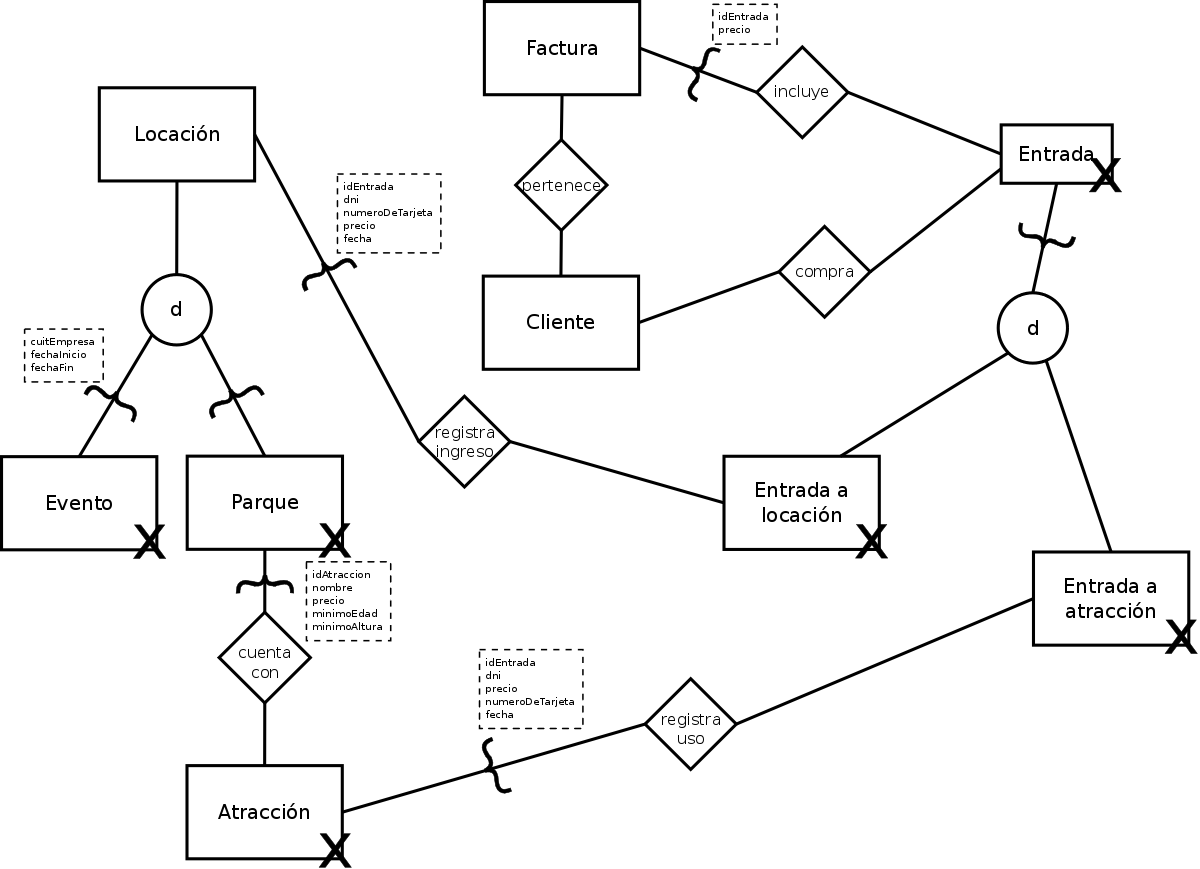
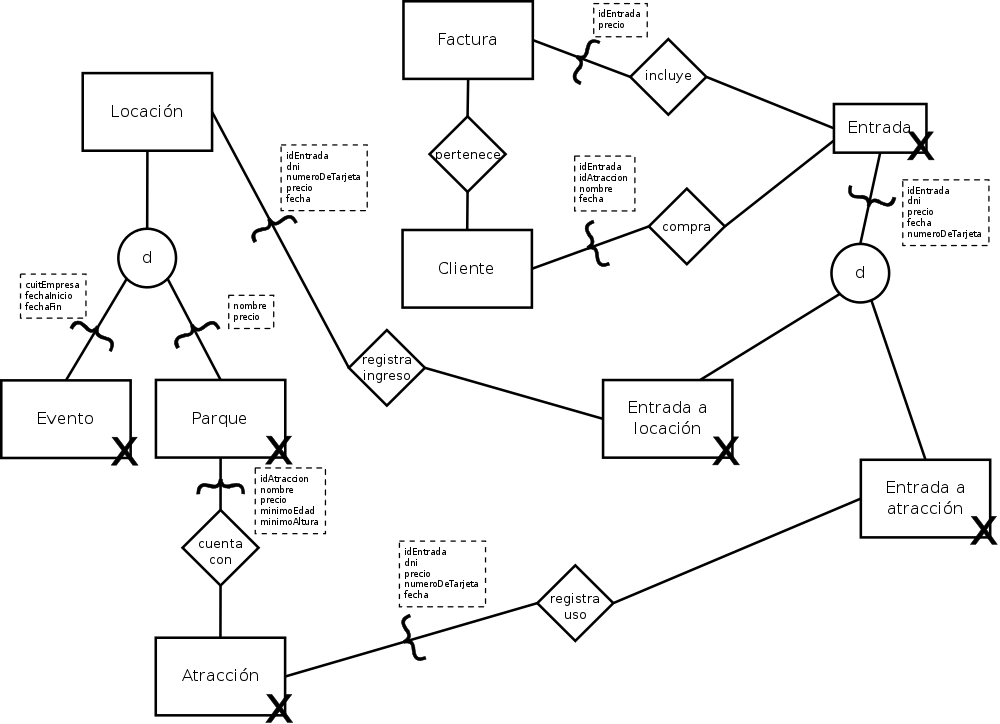
Agrego script para probar shards. Agrego resultados. Actualizo did con cambios hablados con julio. Completo informe

diff --git a/shard-script.py b/shard-script.py
@@ -1,0 +1,69 @@
+#!/usr/bin/env python
+import rethinkdb as r
+import random
+import time
+max=1000000
+oneClientId=0
+initialPoint=500
+
+def randomString(size):
+    return ''.join(random.choice('abcdefghijklmnopqrstuvwxyz 0123456789') for _ in range(size))
+
+def createClient(index):
+    res = r.table('clientes').insert({
+        'dni': index,
+        'nombre': randomString(20),
+        'apellido': randomString(10),
+        'direccion': randomString(30),
+        'telefono': randomString(9),
+        'atraccionesVisitadas': []
+    }).run()
+    global oneClientId
+    if oneClientId == 0 or random.randint(1, 100) > 90:
+        oneClientId = res['generated_keys'][0]
+
+def getClients():
+    r.table('clientes').run()
+
+def getOneClient():
+    global oneClientId
+    r.table('clientes').get(oneClientId).run()
+
+def getGroupClients(currentPoint):
+    global initialPoint
+    size = initialPoint / 2
+    start = random.randint(1,currentPoint-size)
+    r.table('clientes').filter((r.row["dni"] >= start) & (r.row["dni"] < (start+size))).run()
+
+print('Connecting')
+r.connect('localhost', 28015, db='tp2').repl()
+print('Droping table')
+r.table('clientes').delete().run()
+
+f = open('shard-testing.csv', 'w')
+f.write("Rows, Get one, Get all, Get group\n")
+
+print('Initializing')
+point=initialPoint
+for i in range(1,max):
+    createClient(i)
+    if i == point or i == max-1:
+        print "---- " + str(i)
+        point *= 2
+        startTime=time.time()
+        getClients()
+        endTime=time.time()
+        getAllTime=(endTime - startTime) * 1000
+        print "Time get all: " + str(getAllTime)
+        startTime=time.time()
+        getOneClient()
+        endTime=time.time()
+        getOneTime=(endTime - startTime) * 1000
+        print "Time get one: " + str(getOneTime)
+        startTime=time.time()
+        getGroupClients(i)
+        endTime=time.time()
+        getGroupTime=(endTime - startTime) * 1000
+        print "Time get group: " + str(getGroupTime)
+        f.write(str(i) + "," + str(getOneTime) + "," + str(getAllTime) + "," + str(getGroupTime) + "\n")
+        print "--------"

diff --git a/informe/testing.tex b/informe/testing.tex
@@ -1,0 +1,23 @@
+\section{Experimentación con shards}
+
+\par Realizamos unas pruebas sobre la base de datos generada para ver el comportamiento y evaluar la performance de la misma ante un fuerte crecimiento.
+Para esto generamos 3 shards en los cuales almacenamos la tabla \textit{clientes}. Luego fuimos insertando datos y cada cierta cantidad realizamos una serie de consultas y medimos el tiempo de respuesta:
+\begin{itemize}
+  \item Obtener una fila: por medio de un id hacemos un \textit{find} de una fila.
+  \item Obtener 50 filas: utilizando un rango de valores del campo \textit{dni} (valor único) para filtrar un \textit{find0}.
+  \item Obtener todas las filas: hacemos un \textit{find} sin restricciones.
+\end{itemize}
+
+\par Comenzamos sin ninguna fila en la base de datos y llegamos a una cantidad de 520000 filas aproximadamente.
+Los resultados pueden observarse en la figura \ref{fig:testing}.
+
+\begin{figure}
+  \includegraphics[width=\textwidth]{src/shards-testing.png}
+  \caption{Experimentación de performance de shards al aumentar el tamaño de la base de datos.}
+  \label{fig:testing}
+\end{figure}
+
+\par En principio no creíamos tener tan buena respuesta, o al menos notar una diferencia mas notoria superando los 200000.
+Pero como vemos en el gráfico el tiempo de respuesta para obtener una fila es bastante estable, y los tiempos para obtener un grupo de filas o todas las filas no aumenta de forma tan fuerte (mas bien es lineal).
+
+\par El tiempo de inserción no fue mucho, pero al insertar tanta cantidad el tiempo de corrida del script se hizo largo (alrededor de 4 horas).

diff --git a/informe/schemes.tex b/informe/schemes.tex
@@ -33,7 +33,7 @@ De esta manera podemos consultar las atracciones que visitó un cliente de forma
 }
 \end{verbatim}
 
-\subsubsection{Evento}
+\subsection{Evento}
 \par Lo que hicimos fue embeber Evento y Entrada en Locacion, para tener en la misma estructura todos los eventos y sus visitas.
 Así podremos consultar por un evento y obtener las visitas, con fecha, que tuvo.
 \begin{verbatim}
@@ -71,7 +71,7 @@ Así podremos consultar por un evento y obtener las visitas, con fecha, que tuvo
 }
 \end{verbatim}
 
-\subsubsection{Parque}
+\subsection{Parque}
 \par Lo que hicimos fue embeber Entrada en Atracción y luego Atracción en Parque. Para lograr tener las atracciones (y las entradas a esas atracciones) en los parques.
 Luego embebimos Parque en Locación y Entrada en Locación. De esta forma tenemos, además de lo antes mencionado, las entradas a los parques incluidas.
 \par Con esto podemos consultar diréctamente por un parque y obtener sus datos informativos, sus visitas (con fecha) y atracciones (con visitas a ellas).
@@ -131,7 +131,7 @@ Luego embebimos Parque en Locación y Entrada en Locación. De esta forma tenemo
 }
 \end{verbatim}
 
-\subsubsection{Factura}
+\subsection{Factura}
 \par Lo que hicimos en este caso fue embeber Entrada en Factura. De esta manera consultamos una factura y tenemos el monto total y los ids de entradas para poder asociar luego.
 \begin{verbatim}
 {

diff --git a/informe/introduccion.tex b/informe/introduccion.tex
@@ -1,1 +1,15 @@
 \section{Introducción}
+
+\par Se cuenta con una base de datos SQL con datos de un sistema de tarjetas de acceso a parques, atracciones y eventos.
+Debido al gran aumento de datos acumulados se necesita diseñar una nueva base de datos para almacenar historiales de entradas, clientes y
+facturas y poder delegarle ciertas consultas pesadas. Se tiene un listado de consultas que se van a realizar para tener de referencia:
+
+\begin{itemize}
+  \item Atracciones visitadas por un cliente dado.
+  \item Ranking de atracciones por cantidad de visitas para un parque dado.
+  \item Top 5 de Eventos con mayor facturación.
+  \item Total de importes por atracción en un parque dado.
+\end{itemize}
+
+\par En el siguiente informe vamos a presentar una solución al problema planteado indicando cómo llegamos a la misma.
+Así mismo se incluyen resultados de unas pruebas de rendimiento de consultas con gran cantidad de datos.

diff --git a/shard-script-graph.py b/shard-script-graph.py
@@ -1,0 +1,31 @@
+import matplotlib.pyplot as plt
+import csv
+
+
+inputFile = 'shard-testing.csv'
+outputFile = inputFile
+
+entrada = csv.reader(open(inputFile, "rb"))
+
+ejeCantidades = []
+ejeUnaFila = []
+ejeVariasFilas = []
+ejeTodasFilas = []
+linea = 0
+for row in entrada:
+    if linea > 0:
+        ejeCantidades.append(row[0])
+        ejeUnaFila.append(row[1])
+        ejeVariasFilas.append(row[2])
+        ejeTodasFilas.append(row[3])
+    linea = linea + 1
+
+plt.plot(ejeCantidades, ejeUnaFila)
+plt.plot(ejeCantidades, ejeVariasFilas)
+plt.plot(ejeCantidades, ejeTodasFilas)
+plt.xlabel('Cantidad de filas')
+plt.ylabel('Tiempo (ms)')
+plt.title('Experimentacion con base de datos rethinkdb (3 shards)')
+plt.legend(["Una fila", "Varias filas", "Todas las filas"], loc='right')
+
+plt.savefig("shards-testing.png")

diff --git a/informe/concluciones.tex b/informe/concluciones.tex
@@ -1,1 +1,6 @@
 \section{Conclusiones}
+
+\par Nos llevamos una muy buena primera impresión de RethinkDB.
+Creemos que si el diseño está bien pensado se puede sacar mucho provecho en cuanto a tiempos de obtención de grandes datos.
+En esta caso, embebimos bastante información en los distintos esquemas y eso nos dio mucha facilidad para responder las consultas que se necesitaban.
+Sumando a eso lo que mencionamos del tiempo de respuesta, creemos que es una muy buena opción a la hora de pensar en historiales o almacenamiento de datos estáticos con gran volumen.

diff --git a/informe/informe.tex b/informe/informe.tex
@@ -28,13 +28,13 @@
 \maketitle
 
 \tableofcontents
-
-\newpage
-
+\vspace*{5cm}
 \input{introduccion}
+\newpage
 \input{did}
 \newpage
 \input{schemes}
+\input{testing}
 \input{concluciones}
 
 \end{document}
